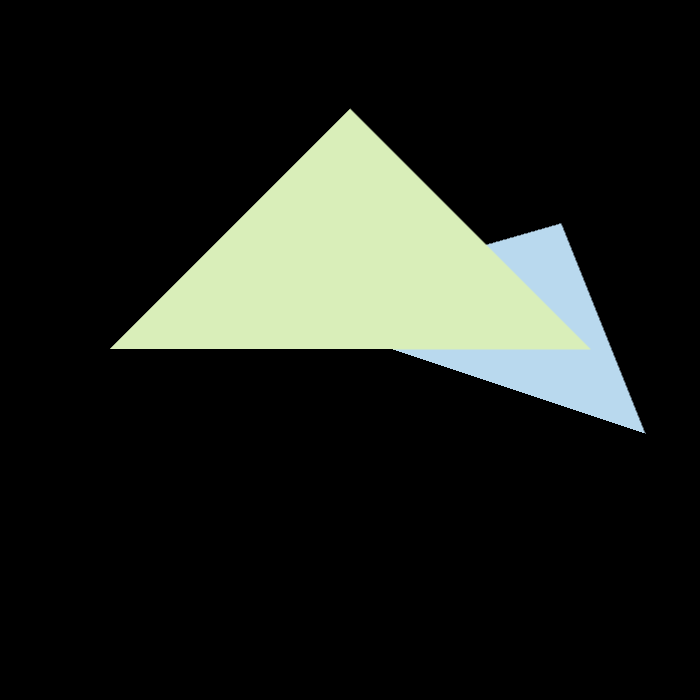
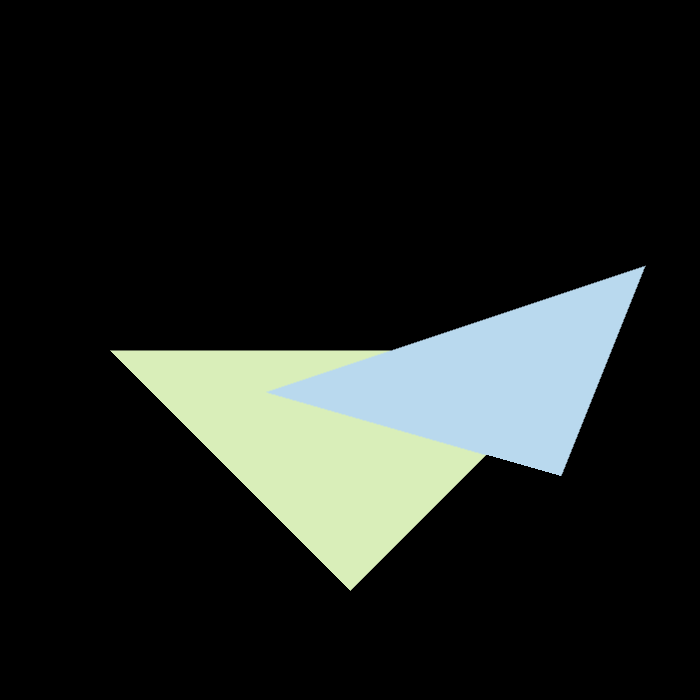
投影矩阵修正

Changed region(s): [[0.15, 0.15, 0.93, 0.84]]

diff --git a/Games101_work2/Scripts/rasterizer.cpp b/Games101_work2/Scripts/rasterizer.cpp
@@ -146,7 +146,7 @@ void rst::rasterizer::rasterize_triangle(const Triangle& t) {
                 float z_interpolated = alpha * v[0].z() / v[0].w() + beta * v[1].z() / v[1].w() + gamma * v[2].z() / v[2].w();
                 z_interpolated *= w_reciprocal;
                 int index = get_index(i, j);
-                if (z_interpolated > depth_buf[index])
+                if (z_interpolated < depth_buf[index])
                 {
                     set_pixel(Eigen::Vector3f(i, j, 0), t.getColor());
                     depth_buf[index] = z_interpolated;
@@ -196,7 +196,7 @@ void rst::rasterizer::clear(rst::Buffers buff)
     }
     if ((buff & rst::Buffers::Depth) == rst::Buffers::Depth)
     {
-        std::fill(depth_buf.begin(), depth_buf.end(), -std::numeric_limits<float>::infinity());
+        std::fill(depth_buf.begin(), depth_buf.end(), std::numeric_limits<float>::infinity());
     }
 
     pixelColor.clear();
